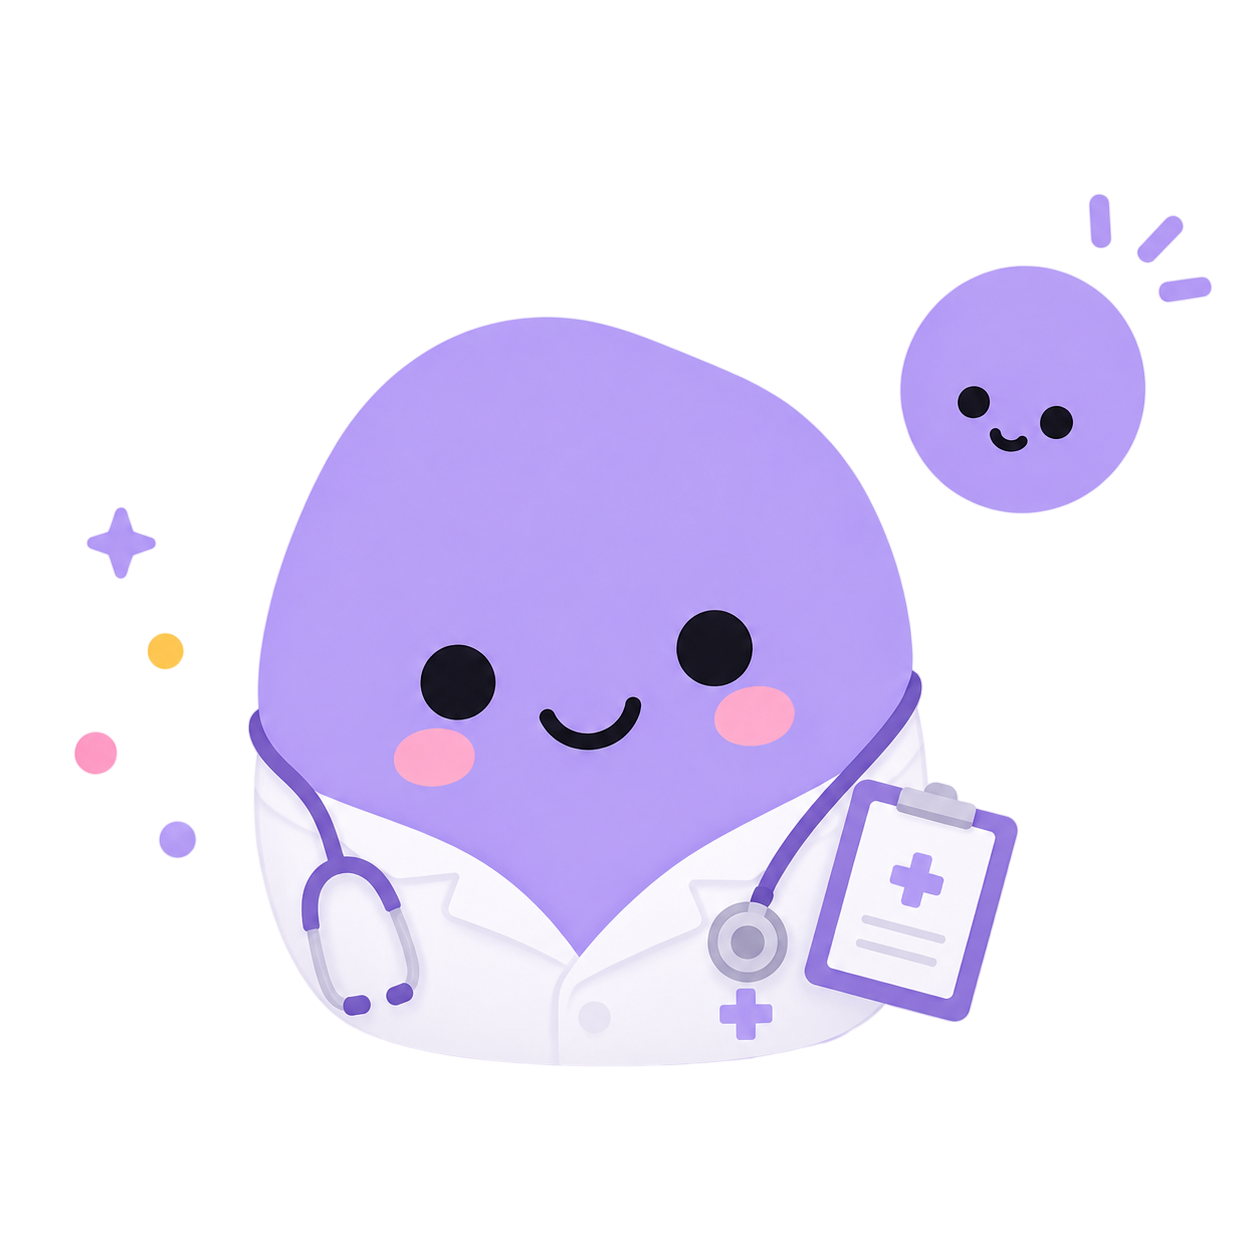
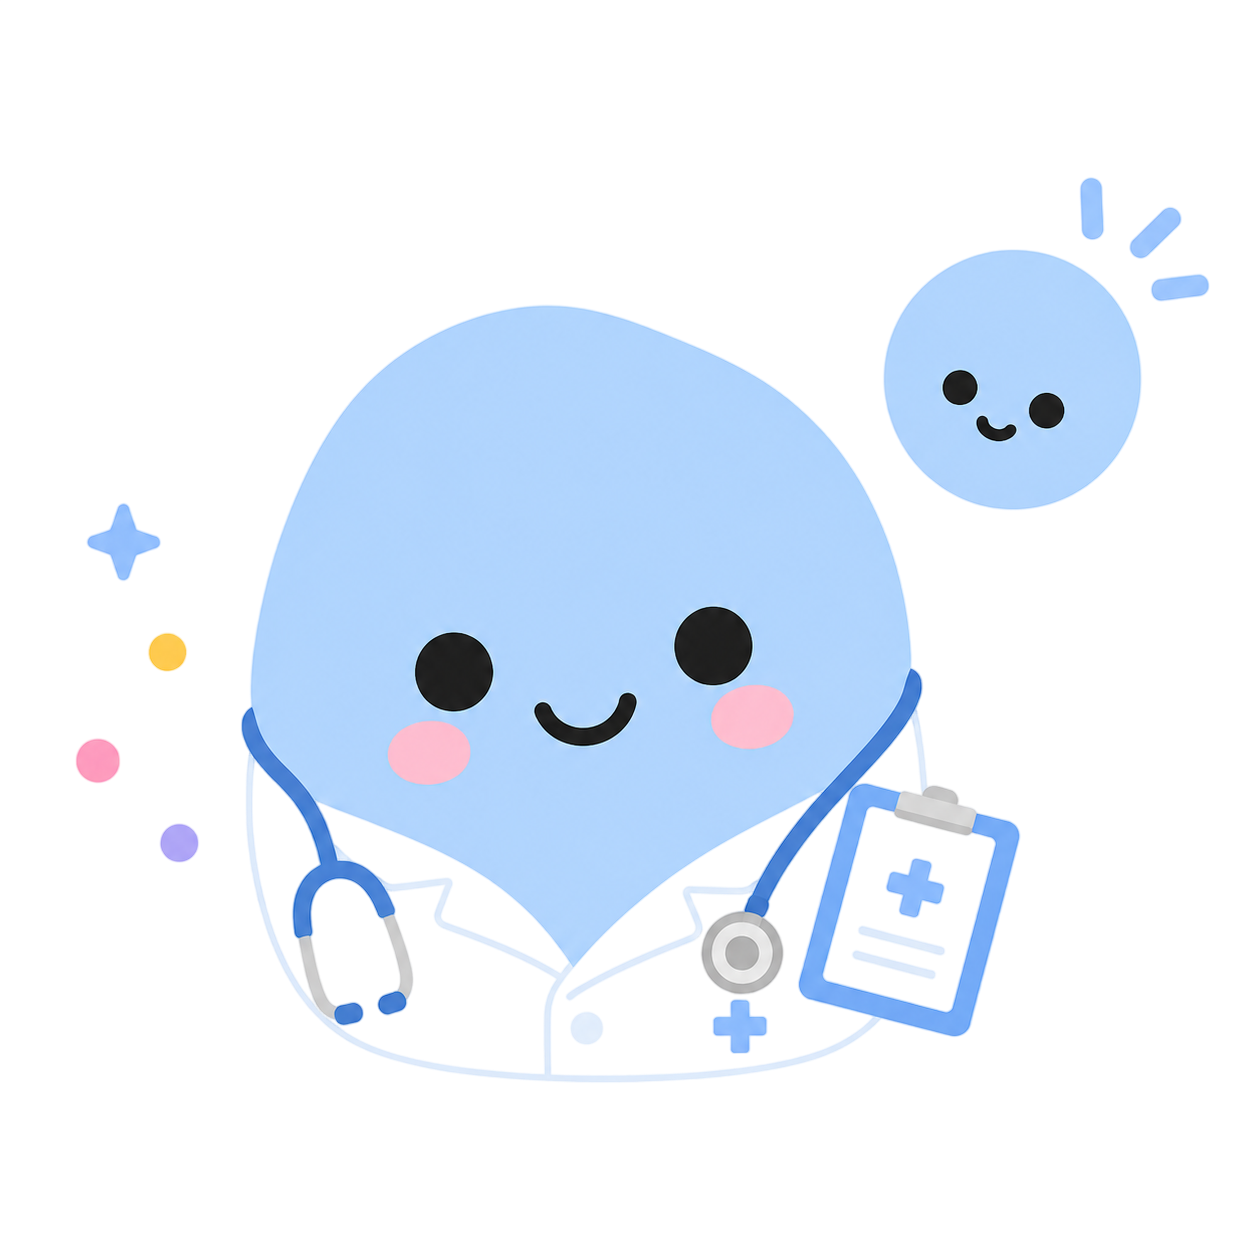
Update mascot assets and remove unused files

diff --git a/schedule-copy-helper/index.html b/schedule-copy-helper/index.html
@@ -4,7 +4,7 @@
   <meta charset="UTF-8">
   <meta name="viewport" content="width=device-width, initial-scale=1.0">
   <title>SORE CARE</title>
-  <link rel="icon" href="assets/mascot.ico">
+  <link rel="icon" href="assets/mascot.ico?v=20260627">
   <style>
     *, *::before, *::after {
       box-sizing: border-box;
@@ -693,7 +693,7 @@
         <h1>SORE CARE</h1>
       </div>
       <div class="hero-art" aria-hidden="true">
-        <img src="assets/lab-mascot.png" alt="">
+        <img src="assets/lab-mascot.png?v=20260627" alt="">
       </div>
       <div class="hero-actions">
         <button class="btn-header" id="open-schedule" type="button">근무표 입력</button>